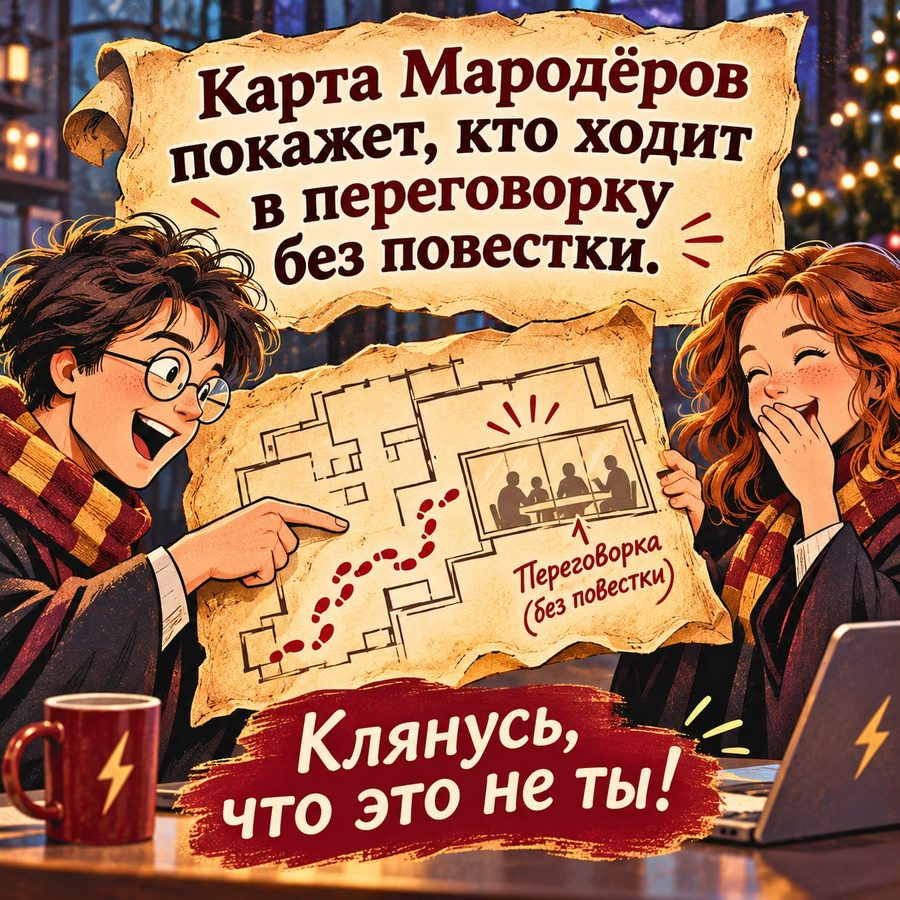
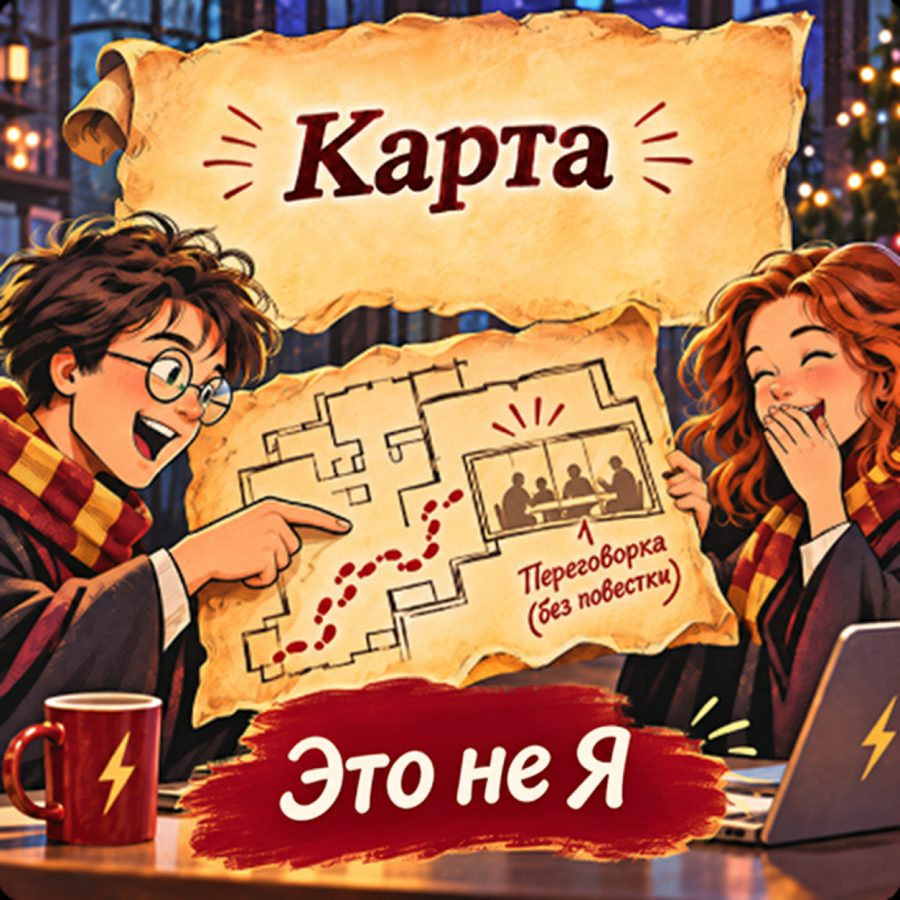
Add files via upload

diff --git a/index.html b/index.html
@@ -242,50 +242,50 @@ button{font:inherit;color:inherit;cursor:pointer;-webkit-tap-highlight-color:tra
     ["team", "Карта Мародёров покажет, кто ходит в переговорку без повестки. Клянусь, что это не ты.", "meme-02.jpg"],
     ["team", "Хагрид пригласит команду на обед и предупредит, что суп «почти не кусается». Гарантий никто не даст.", "meme-03.jpg"],
     ["team", "Спринтовое ревью пройдёт как матч по квиддичу: все носятся, спорят, а итог решает один снитч, последний пункт повестки.", "meme-04.jpg"],
-    ["team", "Коллега, который всегда помнит, как ты пьёшь кофе, однажды поставит на твой стол чашку с твоим именем. Тёплую, как камин в гостиной Гриффиндора."],
-    ["team", "Однажды в командном чате появится общее фото у доски, и ты поймёшь, что ты здесь свой, как Гарри, когда его впервые назвали гриффиндорцем."],
-    ["team", "Раз в год команда соберётся за одним длинным столом, как в Большом зале. Никто не будет спорить, кто прав. Все просто рады, что ты здесь."],
+    ["team", "Ты станешь влиятельным человеком. Тебя начнут спрашивать, можно ли перенести созвон, а не просто ставить перед фактом.", "meme-05.jpg"],
+    ["team", "Тебя ждёт слава. Ты попадёшь на общее фото у доски, и именно кадр, где ты моргнул, поставят на аватарку командного чата.", "meme-06.jpg"],
+    ["team", "Новогодний корпоратив пройдёт как пир в Большом зале Хогвартса. Оливье — базовый минимум. Домовые эльфы, которые моют посуду, — роскошный максимум.", "meme-07.jpg"],
     ["team", "Твой отчёт будет таким длинным, что тебя спросят, это презентация или любовный роман. Ты ответишь: «Это что-то среднее». Такое уже было, и да, это прозвучало двусмысленно.", "meme-08.jpg"],
     ["team", "Кто-то принесёт в офис торт на общий обед, и это будет самый честный способ сказать коллегам, что ты их любишь. Дуайт уже ищет, куда его спрятать.", "meme-09.jpg"],
     ["team", "Твой созвон начнётся с фразы «Меня видно?», и вы будете говорить это ровно семь минут. Майкл просит всех не расстраиваться, потому что тишина тоже командная работа.", "meme-10.jpg"],
     ["team", "Кто-то поставит твой стул в желе, и ты будешь сидеть в нём весь день. Джим улыбнётся и скажет: «Это было неизбежно».", "meme-11.jpg"],
-    ["team", "Однажды коллега скажет: «Я пришёл сюда работать, но остался ради тебя». Это будет самое тихое признание в твоей жизни, и оно прозвучит как Пэм, когда она смотрит на Джима."],
-    ["team", "Команда соберётся на обед без повода, просто потому что всем приятно сидеть вместе. Никто не станет спорить, кто за кем будет сидеть."],
-    ["team", "Новичок, которого ты будешь вводить в курс дел, в конце месяца скажет: «Я нашёл здесь своих». Так и было с каждым, кто попал в Скрэнтон."],
-    ["team", "Когда ты будешь уходить в отпуск, коллеги подпишут открытку и напишут: «Мы будем скучать». И самое трогательное: они не будут шутить, хотя в этот раз могли бы."],
+    ["team", "Вселенная подарит тебе ясность. Ты наконец поймёшь, зачем тебя добавили в этот чат.", "meme-12.jpg"],
+    ["team", "Команда соберётся на обед без повода, просто потому что всем приятно сидеть вместе. Никто не станет спорить, кто за кем будет сидеть.", "meme-13.jpg"],
+    ["team", "Новичок спросит, что говорить на первой планёрке. Ты выдашь ему шпаргалку: «Меня слышно?», «Давайте в асинхроне» и «Это вопрос не ко мне». Через месяц он скажет: «Я нашёл здесь своих».", "meme-14.jpg"],
+    ["team", "Ты передашь дела перед отпуском так чётко, что за две недели тебе не напишут ни разу. Твоё лицо в первый день отпуска — танцующий Джон Хэмм.", "meme-15.jpg"],
     ["team", "В 9:59 придёт письмо «Встреча отменена», но в 10:00 вся команда уже будет сидеть в звонке, потому что никто его не прочитал.", "meme-16.jpg"],
     ["team", "Переговорку забронируют на всё утро, а внутри будет сидеть один человек с ноутбуком. Он тоже не знает, кто бронировал, но уходить не собирается.", "meme-17.jpg"],
-    ["team", "В конце года команда составит общий список достижений. Первым пунктом окажется твоё имя, а не проект."],
+    ["team", "Твой авторитет вырастет. Однажды ты скажешь «у меня всё», и встреча действительно закончится.", "meme-18.jpg"],
     ["team", "Пятничный деплой пройдёт без происшествий. Причина: никто не нажмёт «Выкатить».", "meme-19.jpg"],
     ["team", "Ты напишешь «давайте созвонимся», и никто не включит камеру. Это будет лучший созвон года.", "meme-20.jpg"],
     ["team", "Стенд тестирования заработает с первой попытки. Удивятся все, включая стенд.", "meme-21.jpg"],
-    ["team", "Команда будет собираться на кофе без повестки, просто потому что приятно быть вместе."],
+    ["team", "Тебя ждёт самая короткая и продуктивная встреча года. Коллега без приглашения в календаре тронет тебя лапкой: «Кофе?»", "meme-22.jpg"],
     ["career", "Ты получишь Маховик времени, чтобы успеть на все созвоны за день. Гермиона попросит вернуть его до пятницы.", "meme-24.jpg"],
     ["career", "Шляпа Распределения отправит твою задачу в «срочно». Там она пробудет только до обеда.", "meme-25.jpg"],
     ["career", "Снейп проверит твой отчёт и скажет: «Ожидал худшего». Для него это почти восторг.", "meme-26.jpg"],
-    ["career", "Патронус, который ты призовёшь на тяжёлом проекте, окажется светлым и тёплым, как память о друзьях из Хогвартса. Он будет напоминать, что ты справишься."],
-    ["career", "Твой наставник передаст тебе что-то важное, как Дамблдор передавал знания Гарри. Ты поймёшь, что стал тем, кому тоже хочется передать опыт."],
+    ["career", "Экспекто Патронум Дедлайнорум! В 2027 году у тебя найдётся заклинание для любой сложной задачи.", "meme-27.jpg"],
+    ["career", "Рестартус! Тебе предстоит совершить древнее заклинание IT-специалистов: выключить и включить снова. Сработает с первого раза!", "meme-28.jpg"],
     ["career", "Твой квартальный отчёт Майкл объявит «главным документом года» и попросит зачитать вслух. Дуайт уже принёс распечатки и напомнит, что медведи едят свёклу.", "meme-29.jpg"],
     ["career", "На встрече тебя спросят, любишь ты работу или боишься её. Ты ответишь: «Оба». Майкл кивнёт: «Честный ответ. Я тоже всегда выбираю оба».", "meme-30.jpg"],
     ["career", "На каждом совещании ты будешь говорить, а Джим будет смотреть в камеру, как на соседа по кабинету. Ты поймёшь, что это не телемост, а приём.", "meme-31.jpg"],
     ["career", "Твой пятничный проект закончится тем, что кто-то спрячет степлер в желе. Проект всё равно сдадут вовремя, а степлер так и не найдут.", "meme-32.jpg"],
-    ["career", "Старший коллега, который вечно ворчал на твои идеи, однажды тихо скажет: «Ты справляешься лучше, чем я ожидал». Для него это почти публичное признание, и он сделает вид, что ничего не говорил."],
+    ["career", "Старший коллега, который вечно ворчал на твои идеи, однажды тихо скажет: «Ты справляешься лучше, чем я ожидал». Для него это почти публичное признание, и он сделает вид, что ничего не говорил.", "meme-33.jpg"],
     ["career", "Твой первый крупный успех вызовет аплодисменты всего офиса. Даже Дуайт скажет «Неплохо». Для него это почти стоячая овация.", "meme-34.jpg"],
-    ["career", "Через много лет ты вспомнишь офис не по отчётам, а по людям: по обедам, шуткам и тем, кто всегда был рядом, даже когда было трудно."],
+    ["career", "В 2027 году ты узнаешь, что 40 слайдов презентации можно было заменить одной картинкой с котом.", "meme-35.jpg"],
     ["career", "Задача ушла в бэклог, а бэклог ушёл к тебе. Тикет, который ты закрыл в 2026-м, в 2027-м вернётся с пометкой «срочно, но без деталей».", "meme-36.jpg"],
-    ["career", "Коллега закончит рабочее письмо словами «Спасибо, что ты в нашей команде». Ты не сразу поймёшь, что это не шутка."],
+    ["career", "В 2027 году ты станешь легендой. Твою фразу «это не баг, это фича» начнут использовать без сарказма.", "meme-37.jpg"],
     ["career", "Тебя попросят выступить перед важной аудиторией. Ты спросишь «меня слышно?», и слышно будет.", "meme-38.jpg"],
     ["rest", "Твой отпуск начнётся с того, что сова принесёт письмо: «Ваш рабочий чат ждёт». Ты ответишь «Экспекто Патронум» и выключишь телефон.", "meme-40.jpg"],
     ["rest", "Сортировочная Шляпа распределит тебя в «Диван». Факультет, где все ленивы, но очень счастливы.", "meme-41.jpg"],
     ["rest", "Ты сваришь зелье спокойствия по рецепту из интернета. Снейп, узнав, поставит «Выше ожидаемого».", "meme-42.jpg"],
     ["rest", "Маховик времени вернёт тебя в понедельник, и ты поймёшь, что выходные снова ушли на домашние дела. Гермиона уже составляет план отдыха.", "meme-43.jpg"],
-    ["rest", "Ты выберешься на природу, и Хогвартс-экспресс сам подскажет, что лучшие моменты случаются в дороге к чему-то хорошему."],
-    ["rest", "Кто-то из близких подарит тебе колдографию с общими моментами. Ты будешь разглядывать её и улыбаться, как Гарри у Зеркала Еиналеж."],
-    ["rest", "Вечером ты поймёшь, что самые тёплые воспоминания о лете и есть твой личный Патронус: светлый, спокойный и всегда рядом."],
+    ["rest", "Работа подождёт. Мяч нет. В 2027 году ты научишься правильно расставлять приоритеты. Особенно когда уже забронирован корт.", "meme-44.jpg"],
+    ["rest", "Ты заглянешь в Зеркало Еиналеж и увидишь своё самое заветное желание: пустой календарь и надпись «Задач нет» в трекере.", "meme-45.jpg"],
+    ["rest", "Тебя ждёт путешествие мечты: из переговорки в кухню без единого уведомления в мессенджере.", "meme-46.jpg"],
     ["rest", "Ты решишь отдохнуть без телефона, но Майкл объявит тебя «самым отсутствующим сотрудником года» и вручит статуэтку из фольги. Данди не выбирают, их вручают.", "meme-47.jpg"],
     ["rest", "Кевин сварит чили на выходные, и ты решишь, что это повод держаться подальше от кастрюли. Он обидится, но ненадолго.", "meme-48.jpg"],
     ["rest", "Дуайт запишет тебя на «выездной семинар по выживанию» в Ферму Шрутов. Вернёшься ты оттуда с ферментированной свёклой и твёрдым убеждением, что медведи тоже участвуют.", "meme-49.jpg"],
-    ["rest", "Кто-то подарит тебе блокнот с пометкой «Для хороших дней». В отпуске ты откроешь его и найдёшь записи коллег: короткие, смешные и тёплые."],
+    ["rest", "В 2027 году у тебя появится оберег для трудных дней. Котёнок с мечом напомнит: держись, до пятницы всего четыре созвона.", "meme-50.jpg"],
     ["rest", "Сон после релиза, который не прервёт даже рабочий чат.", "meme-51.jpg"],
     ["rest", "Ты: «Отдыхаю без ноутбука». Чат: 6-7. Ты уже в треде, и телефон снова в руке.", "meme-52.jpg"],
     ["rest", "Отпускососы: в отпуске остаётся один человек, и это тот, кто не выключил уведомления.", "meme-53.jpg"],
